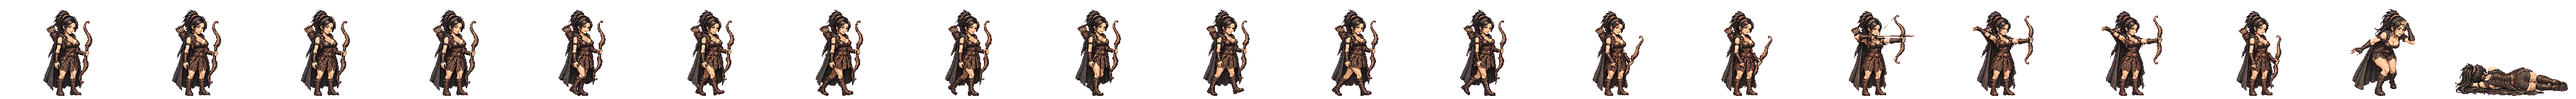
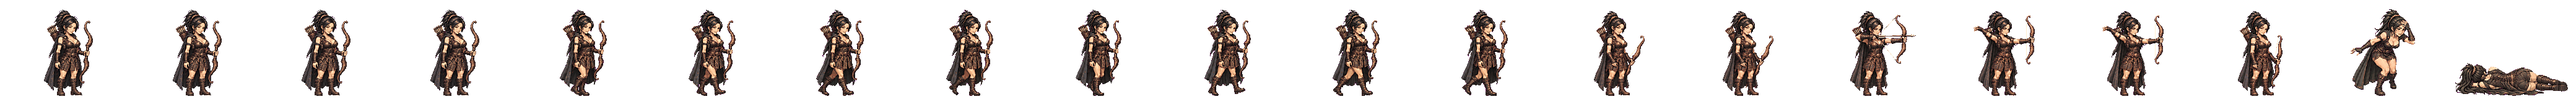
몸의 뿌리를 모든 칸에서 같은 자리에 (형 11-23: 서 있는 것으로 프레임을 꽉 채우면 안 됨 · 그래서 지진 난 듯 흔들린다)
던파 시트는 큰 고정 틀에 발 딛는 자리가 고정이고 공격은 앞 여백으로 뻗는다. 우리는 칸마다 그림 테두리 가운데로 맞춰 몸이 밀렸다.
장면 곁파일(roots.json) + 굽기에서 다리·발을 인형과 겹쳐 뿌리 맞춤 + walk-anchor.py. 범 할퀴기 여덟 칸·달빛 걷기를 다시 구움.
MEGAHIT 에 형 구상(깃발 자동 지휘 + 장수 무쌍 + 적장 1:1) 적어 둠.

Claude-Session: https://claude.ai/code/session_01TRiuN7s6aDfSnaHxrkctmU

diff --git a/tools/sprite-kit/bake-scene.py b/tools/sprite-kit/bake-scene.py
@@ -120,7 +120,25 @@ def motion(path, name, tag, scene=None, zoom=Z, rows=False):
         print(msg)
 
 
-def motion8(path, name, tags=('walk-a', 'walk-b'), norm=True):
+ROOT_X = 104   # 칸(폭 208) 안에서 몸의 뿌리가 서는 자리 — 모든 동작·모든 칸이 같다
+
+
+def register(art, rig, reach=45, band=.20):
+    """그림 덩어리(art)가 인형(rig)에서 가로로 얼마나 밀려 그려졌나.
+    다리·발만 본다(바닥에서 인형 키의 band 몫): 망토·머리카락은 뒤로 길게 날려 몸 전체 겹침을 한쪽으로 끈다(처음에 그렇게 재서 -33px 이 나왔다).
+    두 실루엣의 바닥 줄을 맞춘 뒤, 그 띠에서 서로 다른 화소(XOR)가 가장 적은 밀림을 고른다."""
+    ay, ry = np.nonzero(art.any(1))[0], np.nonzero(rig.any(1))[0]
+    if len(ay) == 0 or len(ry) == 0:
+        return 0
+    h = int((ry.max() - ry.min() + 1) * band)
+    a = art[ay.max() - h + 1:ay.max() + 1]
+    r = rig[ry.max() - h + 1:ry.max() + 1]
+    cost = np.array([int((a ^ np.roll(r, dx, axis=1)).sum()) for dx in range(-reach, reach + 1)])
+    ok = np.nonzero(cost <= cost.min() * 1.02 + 2)[0]
+    return int(round(float(np.median(ok)))) - reach
+
+
+def motion8(path, name, tags=('walk-a', 'walk-b'), norm=True, scene=None):
     """걷기 여덟 칸 장면(5x2 칸 · 왼쪽 줄은 견본) -> <이름>-walk-a-1..4 · <이름>-walk-b-1..4 (사람은 덩어리째 · 칸 금으로 자르지 않는다)
       py -3 -I tools/sprite-kit/bake-scene.py motion8 <받은 장면.png> <이름>"""
     out = Image.open(path).convert('RGB')
@@ -149,6 +167,15 @@ def motion8(path, name, tags=('walk-a', 'walk-b'), norm=True):
                 hs.append(bb[7] - bb[6])
         row_k[j] = (ref_h * 1.015 / float(np.median(hs))) if (ref_h and hs and norm) else 1.0   # 공격처럼 칸마다 키가 다른 판은 norm=False
         print(f'줄{j + 1} 크기 맞춤 x{row_k[j]:.3f}')
+    roots = None
+    if scene:
+        import json, os
+        side = scene.replace('.png', '.roots.json')
+        if os.path.exists(side):
+            roots = json.load(open(side))['roots']
+            sc_img = Image.open(scene).convert('RGB')
+            kx = W / sc_img.size[0]
+            rigmask = np.asarray(Image.fromarray((key(sc_img)[..., 3] > 60).astype(np.uint8) * 255).resize((W, H), Image.NEAREST)) > 127
     for j, tag in enumerate(tags):
         for k in range(4):
             gx0 = cw * (1 + k)
@@ -165,9 +192,23 @@ def motion8(path, name, tags=('walk-a', 'walk-b'), norm=True):
             g2 = g.crop((xs.min(), ys.min(), xs.max() + 1, ys.max() + 1))
             cell = Image.new('RGBA', (CELL_W, CELL), (0, 0, 0, 0))
             ox = round(CELL_W / 2 + (bcx - (gx0 + cw / 2)) * scale * row_k[j] - g2.size[0] / 2)
+            note = ''
+            if roots is not None:   # 뿌리 맞춤: 인형과 겹쳐 밀림을 재고, 뿌리를 ROOT_X 에
+                y0c, y1c = int(ch * j), int(ch * (j + 1))
+                x0c, x1c = max(0, int(gx0 - cw * .25)), min(W, int(gx0 + cw * 1.25))
+                art = (lab[y0c:y1c, x0c:x1c] == bi)
+                rg = rigmask[y0c:y1c, x0c:x1c].copy()
+                rg[:, :max(0, int(gx0) - x0c)] = False
+                rg[:, int(gx0 + cw) - x0c:] = False
+                dx = register(art, rg)
+                root_art = roots[j * 4 + k] * kx + dx
+                ox = round(ROOT_X - (root_art - bx0) * scale * row_k[j])
+                note = f' · 그림이 인형에서 {dx:+d}px 밀림 → 뿌리 맞춤'
+                if ox < 0 or ox + g2.size[0] > CELL_W:
+                    note += ' ← 칸 밖으로 나감!'
             cell.alpha_composite(g2, (max(0, min(CELL_W - g2.size[0], ox)), FOOT - g2.size[1]))
             cell.save(f'{PXD}/{name}-{tag}-{k + 1}.png')
-            print(f'{tag} 칸{k + 1} 게임 키 {g2.size[1]} 폭 {g2.size[0]}')
+            print(f'{tag} 칸{k + 1} 게임 키 {g2.size[1]} 폭 {g2.size[0]}{note}')
 
 
 def fall(path, name, scene, tag='down', k4=1.0, flip4=False):
@@ -237,10 +278,13 @@ if __name__ == '__main__':
         fall(sys.argv[2], sys.argv[3], sys.argv[4], k4=float(nums[0]) if nums else 1.0, flip4='flip4' in sys.argv[5:])
         sys.exit()
     if sys.argv[1] == 'motion8':   # motion8 <받은 장면> <이름> [꼬리표A 꼬리표B = 공격 판: 키 맞춤 없이]
-        if len(sys.argv) > 5:
-            motion8(sys.argv[2], sys.argv[3], (sys.argv[4], sys.argv[5]), norm=False)
+        # motion8 <받은 장면> <이름> [꼬리표A 꼬리표B] [scene=<보낸 장면.png> — 뿌리 곁파일이 있으면 뿌리 맞춤]
+        sc_arg = next((a[6:] for a in sys.argv[4:] if a.startswith('scene=')), None)
+        rest = [a for a in sys.argv[4:] if not a.startswith('scene=')]
+        if len(rest) >= 2:
+            motion8(sys.argv[2], sys.argv[3], (rest[0], rest[1]), norm=False, scene=sc_arg)
         else:
-            motion8(sys.argv[2], sys.argv[3])
+            motion8(sys.argv[2], sys.argv[3], scene=sc_arg)
         sys.exit()
     if sys.argv[1] == 'stand': stand(sys.argv[2], sys.argv[3], int(sys.argv[4]) if len(sys.argv) > 4 else 3)
     else:

diff --git a/tools/sprite-kit/style-scene.py b/tools/sprite-kit/style-scene.py
@@ -71,7 +71,7 @@ def motion_scene(identity, pose_sheet, out, style_ref='soseono', Z=4, CELL=640, 
     o.save(out); print(out, o.size)
 
 
-def motion8_scene(identity, rig_a, rig_b, out, style_ref='soseono', Z=3, CW=384, CH=640):
+def motion8_scene(identity, rig_a, rig_b, out, style_ref='soseono', Z=3, CW=384, CH=640, root=.5):
     """걷기 여덟 칸 장면(1920x1280 · 5x2 칸 · 칸 384x640 · 게임 화소의 3배): 왼쪽 줄 = [그 장수 서기] · [승인 띠] · 오른쪽 4x2 = 윗줄 A 넷 · 아랫줄 B 넷(코드 인형).
     앞·뒤 절반을 한 번에 그리게 해 옷 색이 갈리지 않게 하고 생성 횟수도 절반으로.
       py -3 -I tools/sprite-kit/style-scene.py motion8 <합격한 서기.png> <인형 A.png> <인형 B.png> <나갈.png>"""
@@ -88,6 +88,7 @@ def motion8_scene(identity, rig_a, rig_b, out, style_ref='soseono', Z=3, CW=384,
             im = im.crop(((im.size[0] - CW + 12) // 2, 0, (im.size[0] + CW - 12) // 2, im.size[1]))
         o.paste(im, ((CW - im.size[0]) // 2, j * CH + CH - 40 - im.size[1]), im)
     s = .92 * Z / 4   # 인형은 게임 화소의 4배 · 대머리
+    roots = []   # 칸마다 뿌리의 장면 x (11-23 형 「서 있는 것으로 프레임을 꽉 채우면 안 됨 · 그래서 지진 난 듯 흔들린다」 → 몸의 뿌리를 모든 칸에서 같은 자리에)
     for j, path in enumerate((rig_a, rig_b)):
         sh = Image.open(path).convert('RGB')
         W, Hs = sh.size
@@ -101,7 +102,11 @@ def motion8_scene(identity, rig_a, rig_b, out, style_ref='soseono', Z=3, CW=384,
             fig = fig.resize((round(fig.size[0] * s), round(fig.size[1] * s)), Image.LANCZOS)
             cx = (xs.min() + xs.max()) / 2 / (W / 2)
             x0 = CW * (1 + k) + round(CW / 2 + (cx - .5) * (W / 2) * s - fig.size[0] / 2)
-            o.paste(fig, (max(CW * (1 + k) + 4, min(CW * (2 + k) - 4 - fig.size[0], x0)), j * CH + CH - 40 - fig.size[1]), fig)
+            x0 = max(CW * (1 + k) + 4, min(CW * (2 + k) - 4 - fig.size[0], x0))
+            o.paste(fig, (x0, j * CH + CH - 40 - fig.size[1]), fig)
+            roots.append(round(x0 + (root * (W / 2) - xs.min()) * s, 1))   # 인형의 뿌리 = 인형 칸의 root 몫(기본 한가운데 = 골반)
+    import json
+    json.dump(dict(cw=CW, ch=CH, z=Z, roots=roots), open(out.replace('.png', '.roots.json'), 'w'))
     o.save(out)
     print(out, o.size)
 

diff --git a/tools/sprite-kit/walk-anchor.py b/tools/sprite-kit/walk-anchor.py
@@ -1,0 +1,34 @@
+# -*- coding: utf-8 -*-
+"""걷는 여덟 칸의 윗몸을 한자리에 (11-23 · 뿌리 맞춤 다음 걸음).
+bake-scene motion8 … scene= 이 발로 뿌리를 맞춘 뒤에도, 그림 도구가 칸마다 윗몸을 조금씩 다른 자리에 그려 머리가 좌우로 흔들린다.
+잘 만든 도트 걷기는 윗몸이 한 그림이고 다리만 바뀐다 → 여덟 칸의 머리 가로 자리를 가운데 값에 맞춘다(뿌리는 평균으로 제자리에 남는다).
+  py -3 -I tools/sprite-kit/walk-anchor.py <이름>      (그 뒤 head-lock.py)
+"""
+import sys
+import numpy as np
+from PIL import Image
+
+PXD = 'D:/에셋창고/STD/px'
+
+
+def head_x(im):
+    a = np.asarray(im)[..., 3] > 0
+    ys = np.nonzero(a.any(1))[0]
+    return float(np.nonzero(a[ys.min() + 12:ys.min() + 42])[1].mean())
+
+
+def main(name):
+    paths = [f'{PXD}/{name}-walk-{t}-{i}.png' for t in 'ab' for i in (1, 2, 3, 4)]
+    ims = [Image.open(p).convert('RGBA') for p in paths]
+    hx = [head_x(i) for i in ims]
+    tgt = float(np.median(hx))
+    for p, im, v in zip(paths, ims, hx):
+        d = int(round(tgt - v))
+        o = Image.new('RGBA', im.size, (0, 0, 0, 0))
+        o.alpha_composite(im.crop((max(0, -d), 0, im.size[0] - max(0, d), im.size[1])), (max(0, d), 0))
+        o.save(p)
+    print(name, '머리 가로 자리', [round(v, 1) for v in hx], '→', round(tgt, 1), '· 흔들림', round(max(hx) - min(hx), 1))
+
+
+if __name__ == '__main__':
+    main(sys.argv[1])

diff --git a/docs/realm/production/ART-SKELETON.md b/docs/realm/production/ART-SKELETON.md
@@ -192,3 +192,21 @@ BATTLE-ART-BIBLE.md(그림 결·주문 문안)는 이 문서 아래로 들어간
 - 테일즈위버는 그 사이트에 캐릭터 도트가 거의 없어(1건) 보지 못했다. 형이 캡처를 주면 본다.
 **반영:** `head-lock.py`(걷는 칸의 머리를 한 장으로 · 범·매화·달빛 적용) · 인형 팔 흔듦 ±26도 → ±11도 · 걷기 문안에 「윗몸은 여덟 칸이 같은 그림」.
 - ✅ 달빛 걷기 다시(23:2x): 윗몸은 여덟 칸 같은 그림 · 팔 작게 · head-lock → 게임에. 걷기의 기준 판. (그림 도구가 높낮이는 따르지 않아 머리 높이는 여덟 칸 같다 — 실제 던파 걷기도 윗몸은 거의 고정이라 그대로 둔다.) 해비·아룸 서기 합격(아룸은 다리 손질 중). 다음: 두 손 무기(도끼·망치)를 든 걷기 인형.
+
+## 11. 몸의 뿌리 (11-23 밤 · 형 「서 있는 것으로 프레임을 꽉 채우면 안 됨 · 공격을 위한 여백을 미리 · 그래서 계속 지진 난 듯 흔들린다」)
+
+던파 시트(직접 봄): 모든 칸이 **같은 큰 틀**이고 캐릭터는 틀의 왼쪽 아래에 선다. **발 딛는 자리(뿌리)가 모든 칸에서 같고**, 돌진·공격은 앞쪽 빈 공간으로 뻗어 나간다. 틀을 서 있는 몸에 꽉 맞추지 않는다.
+우리가 흔들린 까닭: 굽는 코드가 칸마다 **그림 테두리의 가운데**로 몸을 다시 맞췄다 — 망토가 날리거나 팔을 뻗으면 테두리가 달라져 몸이 밀린다. 그림 도구도 인형이 선 자리에서 2~32px(장면 화소)씩 옮겨 그렸다.
+
+**규칙**
+- 뿌리 = 골반 바로 아래 바닥 자리. 칸(208×160) 안에서 **ROOT_X = 104 · 발바닥 줄 155** 에 둔다 — 서기·걷기·공격·맞음·개성 동작 모두.
+- 인형 장면을 만들 때 칸마다 뿌리의 자리를 곁파일(`<장면>.roots.json`)에 적는다(`style-scene.py motion8`). 굽기(`bake-scene.py motion8 … scene=<장면>`)는 받은 그림의 **다리·발(바닥에서 키의 20%)** 을 인형과 겹쳐 밀림을 재고 뿌리를 맞춘다. (몸 전체로 겹치면 뒤로 날리는 망토가 한쪽으로 끈다 — 처음에 그렇게 재서 틀렸다.)
+- 걷기는 뿌리를 맞춘 뒤 **윗몸을 한자리에**(`walk-anchor.py`: 여덟 칸의 머리 가로 자리를 가운데 값으로) → `head-lock.py`.
+- 서기 칸은 걷기 칸의 머리 자리에 맞춘다(`strip-build.py … align`).
+- 눕는 칸은 예외(사람이 가로로 길다): 칸 가운데.
+
+**아직 안 한 것**
+- 범·매화의 걷기는 옛 인형으로 그려 곁파일이 없다 → 새 걷기 규칙으로 다시 그릴 때 함께.
+- 2×2 장면(`motion` · 활 쏘기·개성 동작)과 쓰러짐 장면에도 곁파일을.
+- **공격 장면은 앞쪽 여백을 더**: 인형 칸에서 뿌리를 왼쪽 38% 자리에 두고 칸을 넓힌다(`motion8_scene(root=.38)`) — 창 찌르기처럼 멀리 뻗는 동작을 그리기 전에. 게임의 칸 폭 208 에서 뿌리 104 면 앞으로 104px 까지 뻗을 수 있다(범 할퀴기는 62px).
+- 게임 쪽: 장수를 그릴 때 칸의 뿌리(104)를 장수의 자리로 쓰는지 확인(좌우 뒤집기도 뿌리를 축으로).

diff --git a/docs/realm/MEGAHIT.md b/docs/realm/MEGAHIT.md
@@ -107,3 +107,9 @@
   3. **상점 페이지(Coming Soon)를 당긴다** — 찜은 출시 전 시간이 쌓는다. 영어 첫 30분이 서면 바로 연다.
   4. **짧은 영상을 꾸준히** — 각성 숨쉬기 영상·생포 연출·전투 한 합·지도 깃발 물결은 세로 숏폼 감이다. 출시 전부터 주 1~2편.
   5. **우리만의 것으로 고른다** — 기존 IP 쏠림을 이기는 건 「다른 데 없는 것」: 원삼국 78국 · 한국 시조 신화 · 사로잡아 마음을 얻는 장수. 슬롭은 장르 모방이라 이 결이 곧 방패다.
+
+## 형 구상 (2026-11-23 밤 · 적어만 둠 · 새 시스템 동결 중이라 만들지는 않음)
+형: 「이렇게 해서 (전투 그림을) 잘 만든다면 본게임 전쟁 전투에서도 턴제가 아니라 깃발로 군사들은 대략적 컨트롤 자동 지휘 해 두고 영웅으로 나가서 진삼국무쌍처럼 무쌍 찍고 올 수도 있겠다. 적 장수 만나면 1:1 되는 거고.」
+- 이미 있는 조각: 열전(장수 한 명이 몰려오는 적을 쓸어버리는 판 = 무쌍의 뼈대) · 대결(1:1 · KO 연출) · 본편 전장의 깃발(군사 배치) · 새 전투 그림(걷기·공격 여덟 칸·쓰러짐).
+- 이으면: 본편 싸움 = [깃발로 군사 방침 정하기] → [장수로 직접 뛰어들어 싸우는 판(열전 엔진)] → [적 장수와 마주치면 대결로 넘어감] → 결과가 본편 싸움에 반영.
+- 정할 것: 직접 뛰는 판의 결과를 본편 숫자(병력·사기)에 어떻게 되돌리나 · 「전투는 운보다 통제」 원칙과의 관계(직접 조작이 결과를 뒤집을 수 있나) · 건너뛰기(자동 판정) 선택지 · 판 길이.
